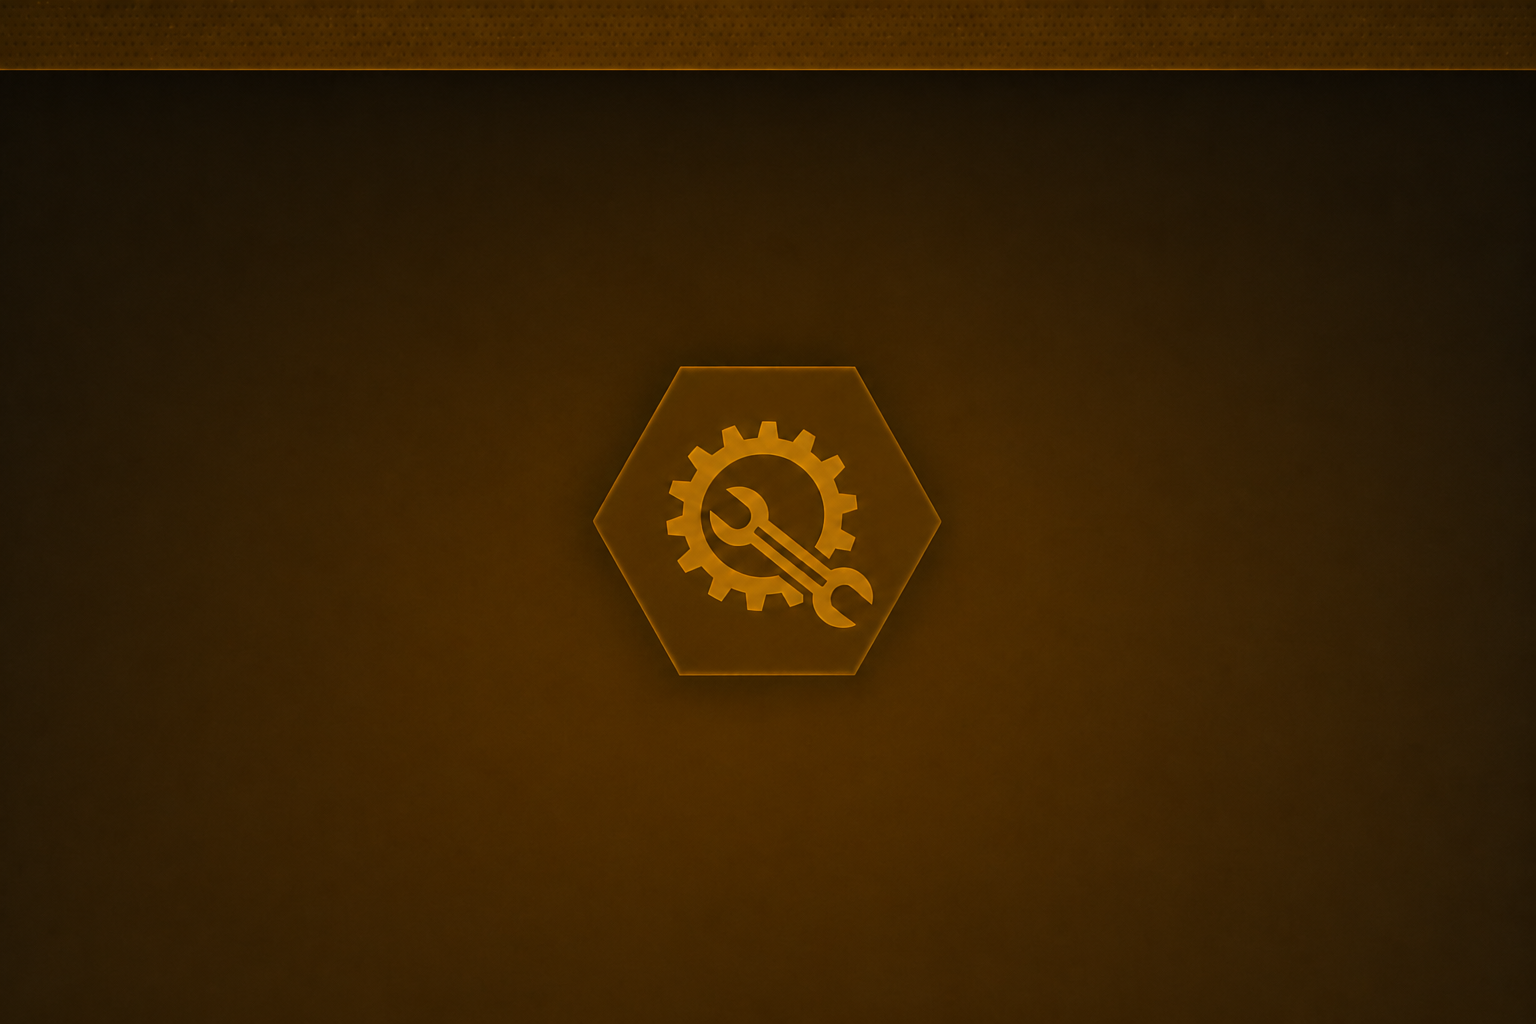
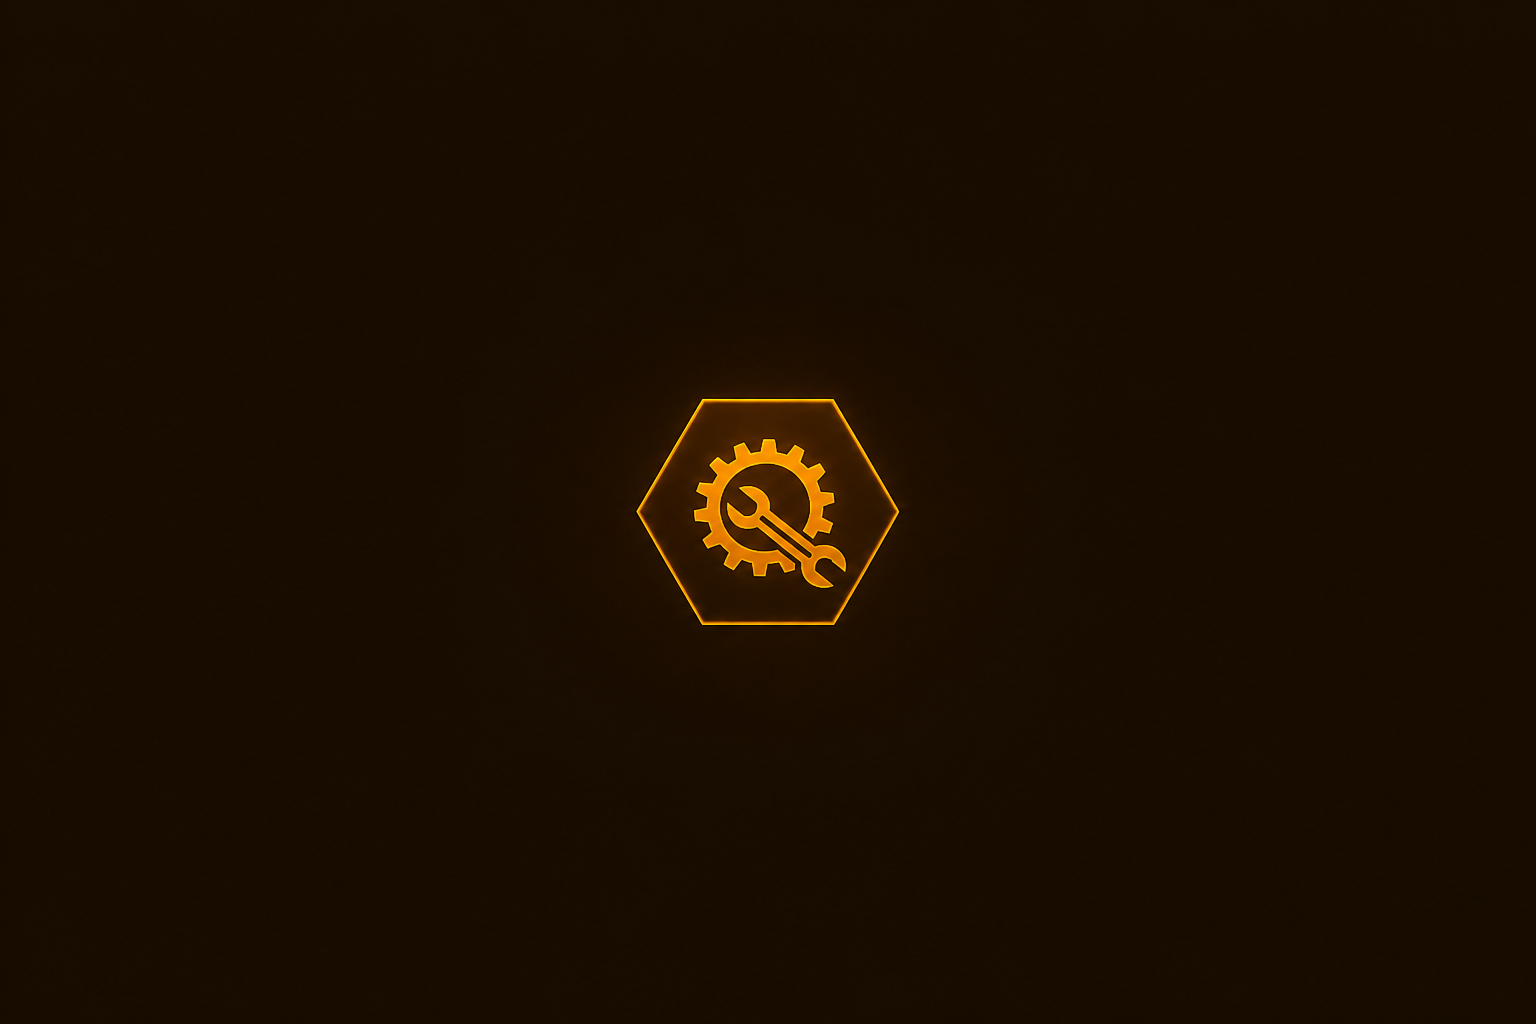
More Fix RnD (#4957)

diff --git a/nano/js/nano_base_helpers.js b/nano/js/nano_base_helpers.js
@@ -11,7 +11,7 @@ NanoBaseHelpers = function () {
       return ''
     },
     ntscieMode: function () {
-      $('body').css("background-color","#2d3441")
+      $('body').css("background-color","#091020")
       $('body').css("background-image","url('uiBackground-NTsci.png')")
       $('body').css("background-position","50% 0")
       $('body').css("background-repeat","repeat-x")
@@ -22,7 +22,7 @@ NanoBaseHelpers = function () {
       return ''
     },
     ntengiMode: function () {
-      $('body').css("background-color","#372102")
+      $('body').css("background-color","#180c00")
       $('body').css("background-image","url('uiBackground-NTengi.png')")
       $('body').css("background-position","50% 0")
       $('body').css("background-repeat","repeat-x")
@@ -33,7 +33,7 @@ NanoBaseHelpers = function () {
       return ''
     },
     ntmedMode: function () {
-      $('body').css("background-color","#000a0a")
+      $('body').css("background-color","#000c0b")
       $('body').css("background-image","url('uiBackground-NTmed.png')")
       $('body').css("background-position","50% 0")
       $('body').css("background-repeat","repeat-x")
